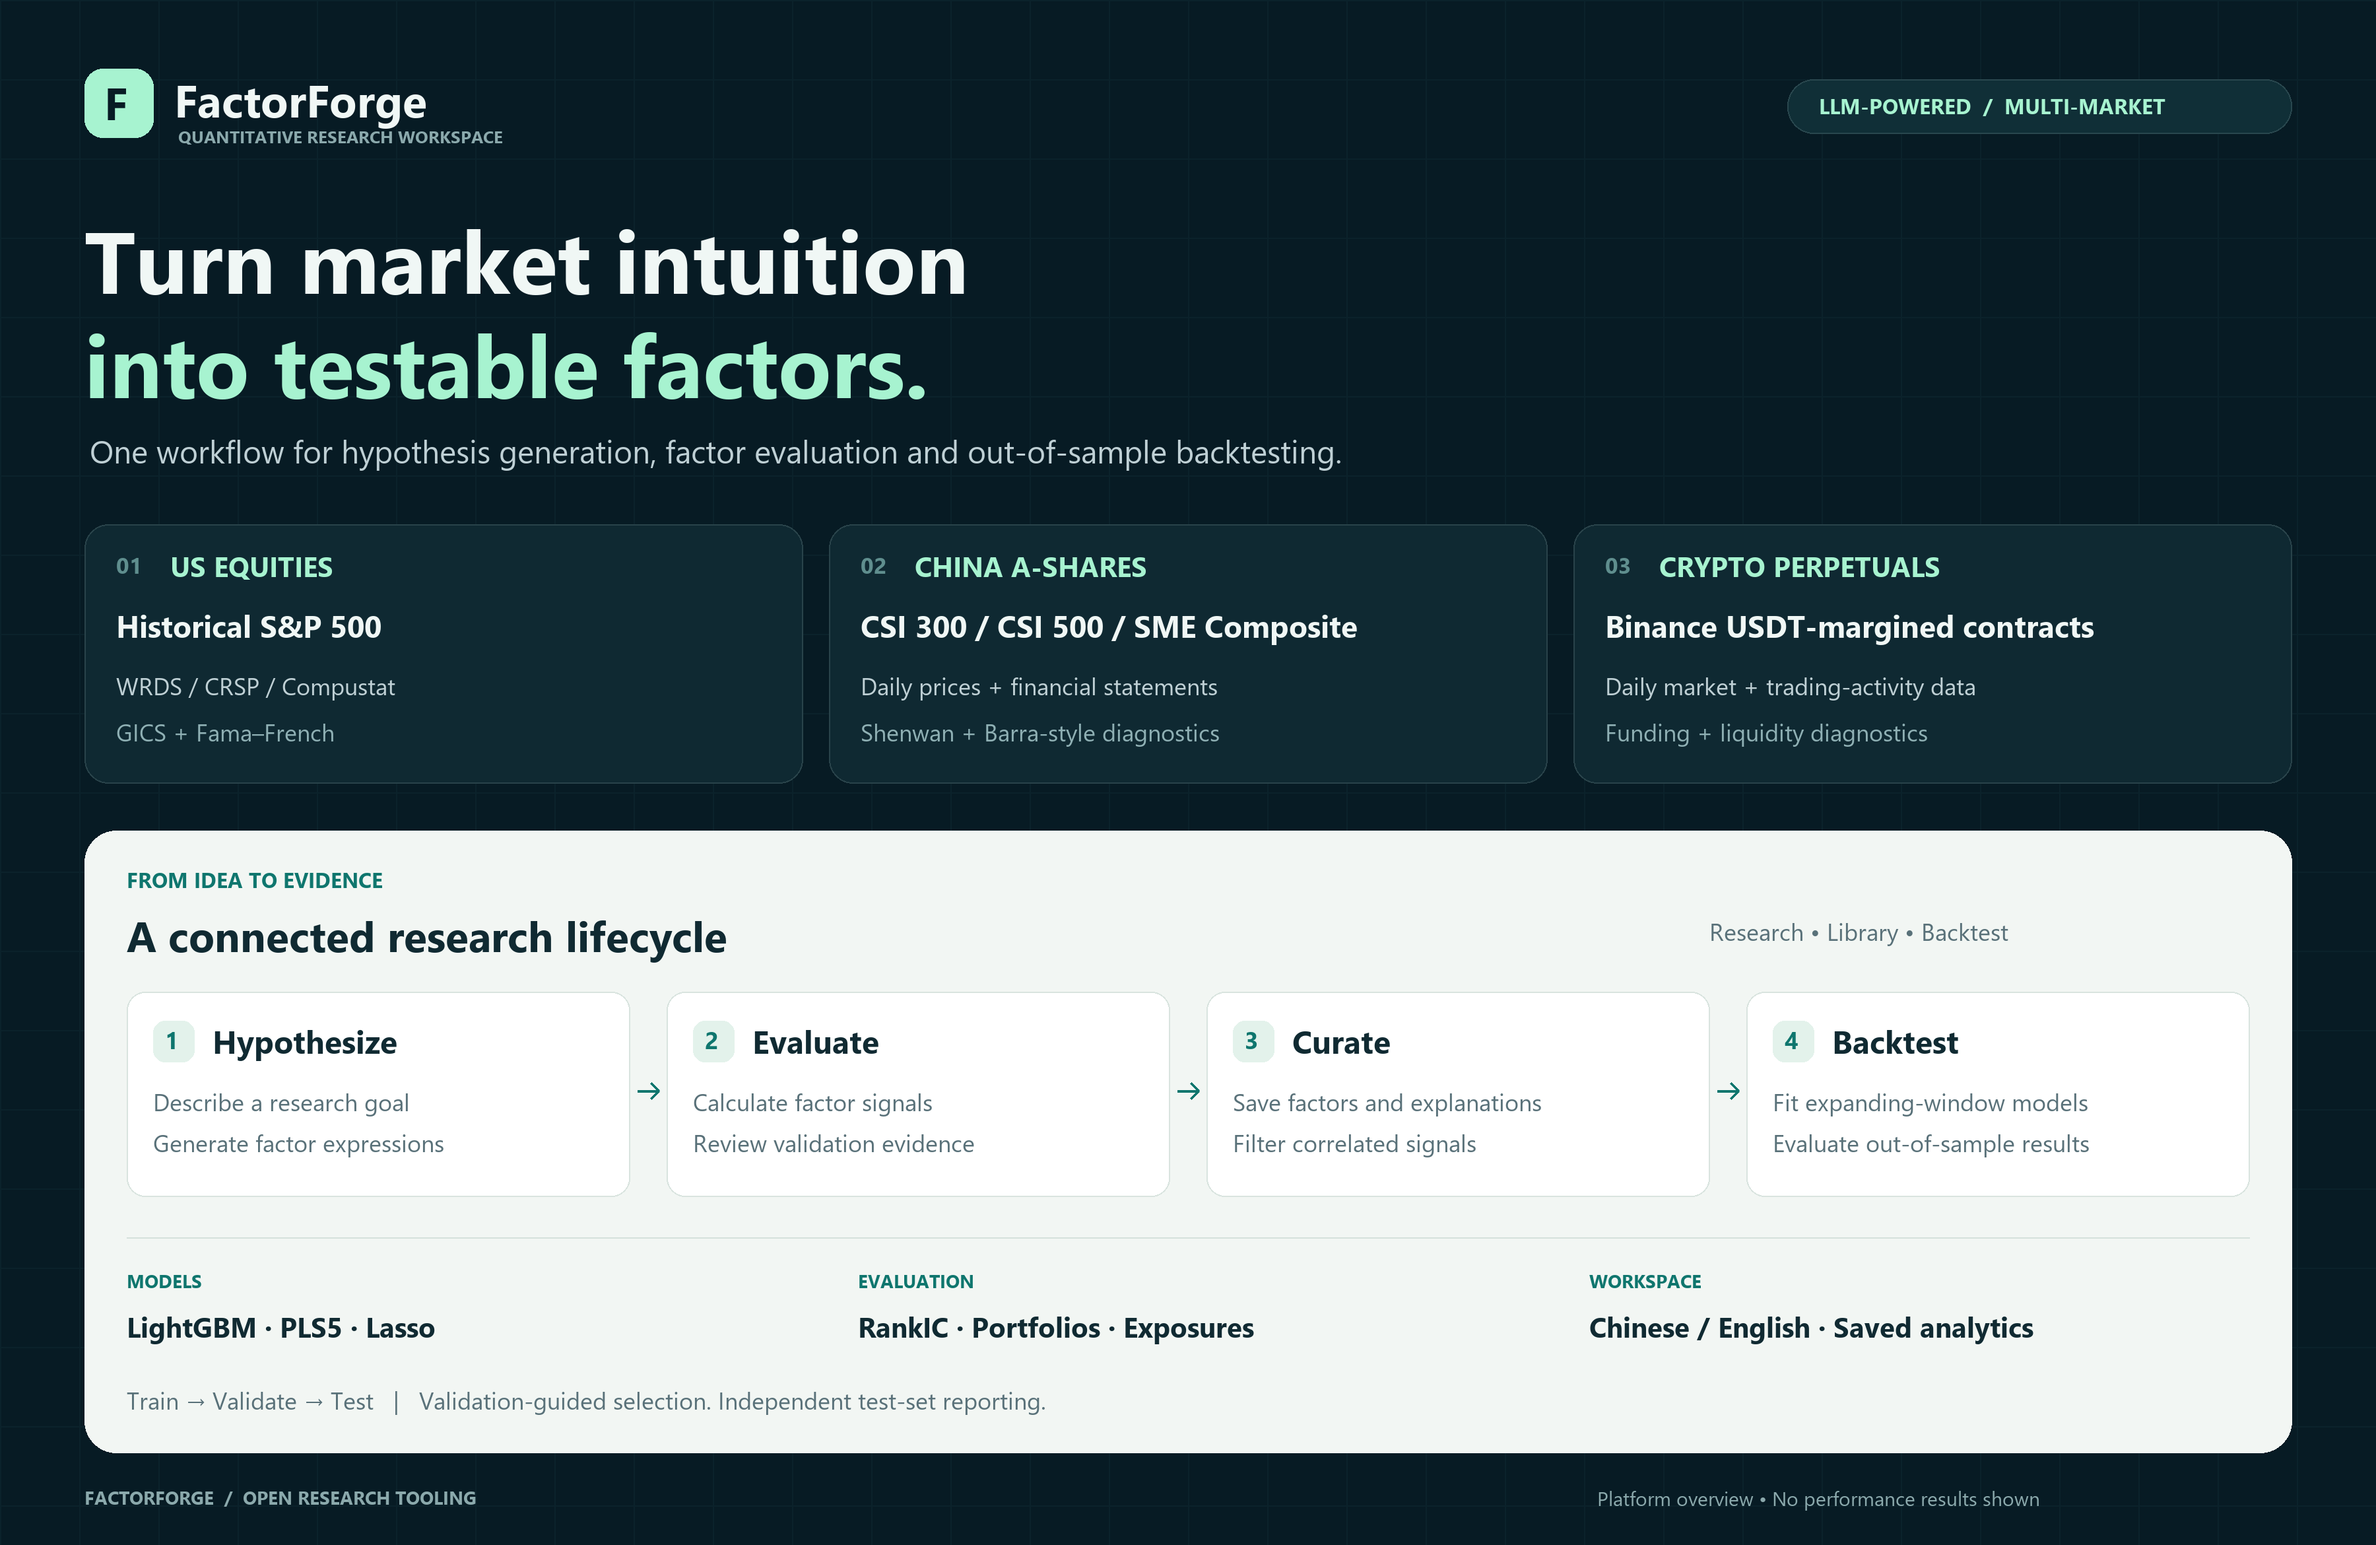
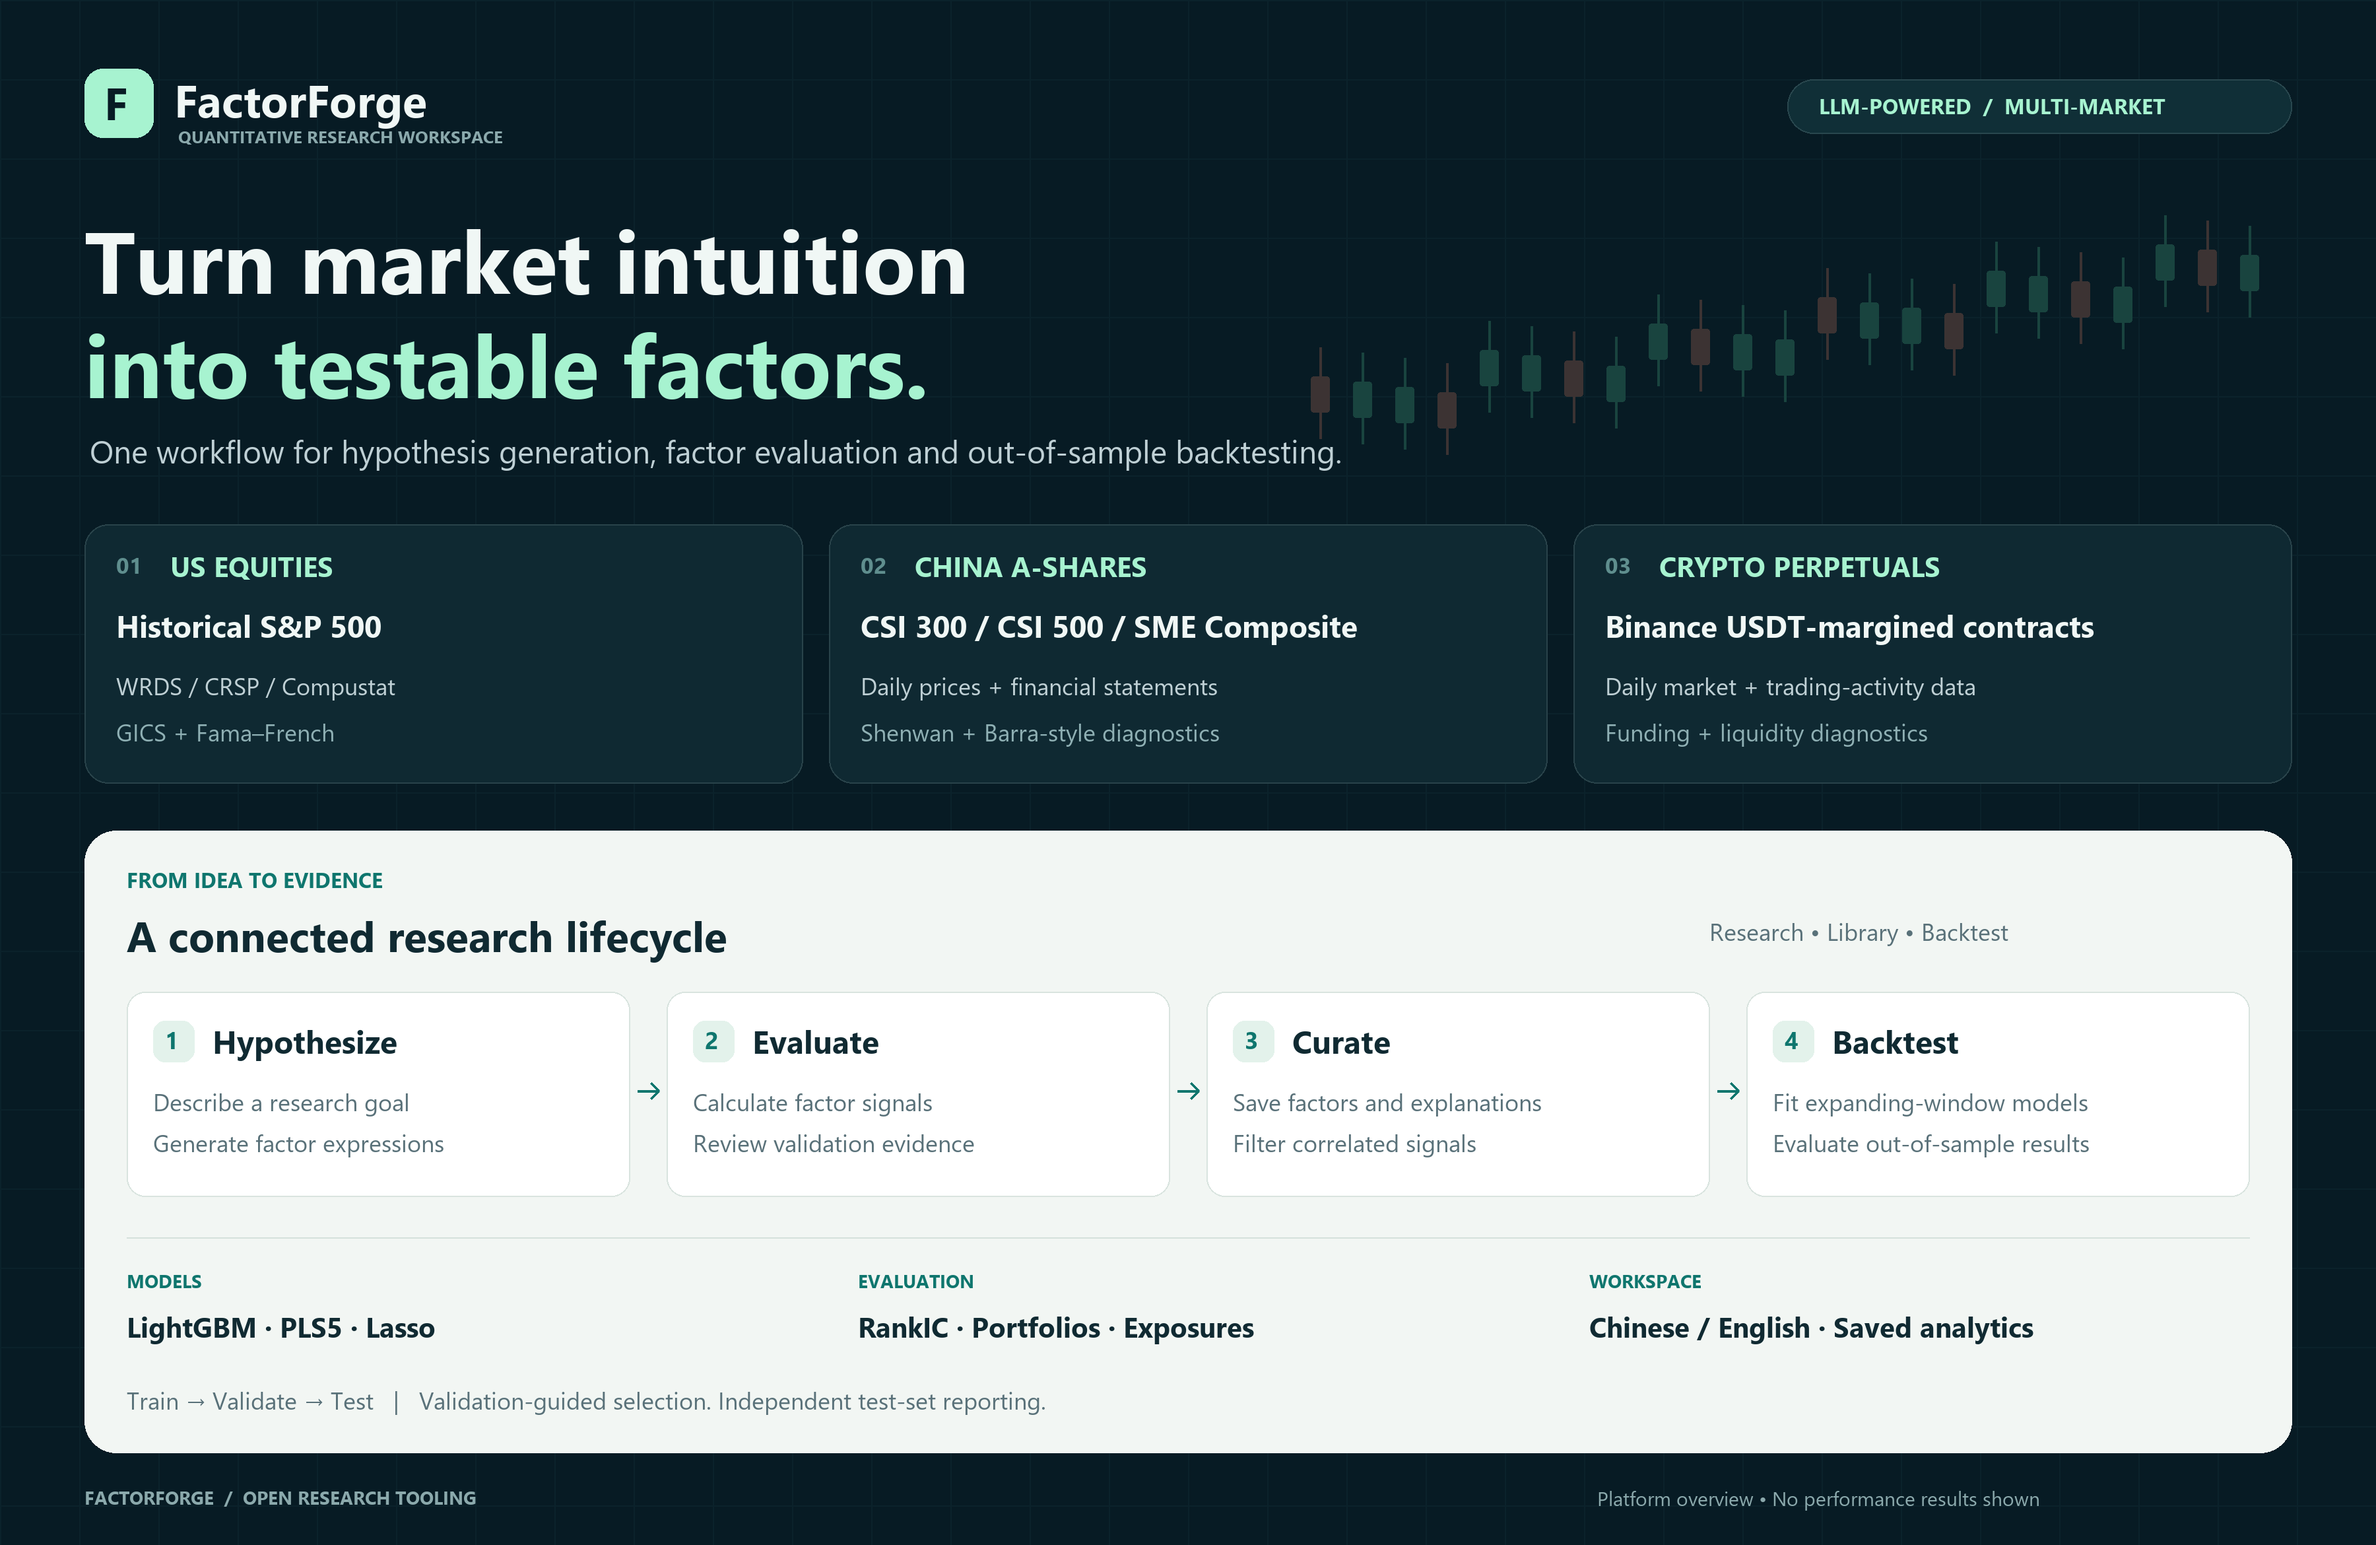
docs: add English README and candlestick platform styling

Changed region(s): [[0.6222, 0.156, 0.9022, 0.2808], [0.5289, 0.2496, 0.6222, 0.2808], [0.9022, 0.156, 0.9644, 0.1872]]

diff --git a/factorforge/frontend-v2/src/index.css b/factorforge/frontend-v2/src/index.css
@@ -108,6 +108,21 @@
   background-size: 32px 32px, 32px 32px, auto, auto;
 }
 
+/* A static decorative chart stays behind content and never intercepts input. */
+.research-grid {
+  position: relative;
+  isolation: isolate;
+}
+
+.research-grid::before {
+  content: '';
+  position: fixed;
+  inset: 76px 0 0;
+  z-index: -1;
+  pointer-events: none;
+  background: url('/candlestick-background.svg') center / cover no-repeat;
+}
+
 /* Animated gradient border */
 @keyframes gradient-border {
   0%, 100% {

diff --git a/docs/render_showcase.py b/docs/render_showcase.py
@@ -22,6 +22,14 @@ def line(coords,fill='#29414a',width=1):
 for x in range(0,1800,60): line((x,0,x,1170),'#0b222b')
 for y in range(0,1170,60): line((0,y,1800,y),'#0b222b')
 
+# Decorative candlesticks, not historical prices or performance results.
+for i in range(23):
+    x = 1000 + i * 32
+    y = 285 - i * 5 + (i % 4) * 9
+    color = '#19443f' if i % 3 else '#3c3333'
+    line((x, y - 22, x, y + 47), color, 2)
+    box((x - 7, y, x + 7, y + 27), color, radius=2)
+
 box((64,52,116,104),'#a7f3d0',radius=14)
 text(79,54,'F',34,'#071b24',True)
 text(132,52,'FactorForge',34,'#f0f7f5',True)

diff --git a/README_EN.md b/README_EN.md
@@ -1,0 +1,161 @@
+<div align="center">
+
+# FactorForge
+
+**[简体中文](README.md) · English**
+
+**From research hypotheses to testable factors and out-of-sample portfolios.**
+
+An LLM-powered research workspace for US equities, China A-shares and crypto perpetuals.
+
+[Features](#features) · [Markets](#markets) · [Quick start](#quick-start) · [Project structure](#project-structure)
+
+</div>
+
+![FactorForge platform overview](docs/assets/factorforge-overview.png)
+
+## Overview
+
+FactorForge brings hypothesis generation, factor calculation, statistical evaluation, library management and portfolio backtesting into one web workspace. Describe an idea or select research directions, evaluate candidate signals and use validation feedback to guide subsequent iterations.
+
+The platform source lives in [`factorforge/`](factorforge/). Its Python package retains the name `quantaalpha` for compatibility.
+
+```mermaid
+flowchart LR
+    A[Market and date configuration] --> B[Research hypotheses]
+    B --> C[LLM factor expressions]
+    C --> D[Calculation and validation]
+    D --> E[Feedback and evolution]
+    E --> C
+    D --> F[Factor library]
+    F --> G[Correlation filtering and modeling]
+    G --> H[Expanding-window backtest]
+```
+
+## Features
+
+| Module | Capabilities |
+|---|---|
+| Factor research | Natural-language goals, research directions, expression generation, iterative evolution, progress and logs |
+| Factor library | Separate markets and universes, historical deduplication, quality filters, ranking, batch removal and correlation heatmaps |
+| Factor details | LLM explanations, train/validation/test views, grouped returns, predictive statistics and market-specific diagnostics |
+| Portfolio backtests | Custom, Combined and US WRDS Kelly sources; LightGBM, PLS5 and Lasso; expanding-window fitting |
+| Settings | LLM connections, data paths, market parameters, independent date splits and evaluation frequencies |
+| Interface | Chinese/English switching, saved charts and statistics, reusable results and artifact cleanup |
+
+### Research and evaluation
+
+- **Predictiveness:** IC, RankIC and stability statistics. Crypto selection emphasizes validation RankIC / RankICIR; IC remains diagnostic.
+- **Portfolio behavior:** long, short and long–short returns, quantile portfolios, Sharpe, drawdown, turnover and costs.
+- **Exposures:** FF3, FF5, momentum extensions, industry and style diagnostics where supported by market data.
+- **Split isolation:** validation guides selection and evolution; the test set provides final out-of-sample evaluation.
+- **Correlation filtering:** identify redundant signals before building a portfolio model.
+
+Single-factor analytics evaluate the signal itself. Independent portfolio backtests evaluate predictions and portfolios built from multiple signals.
+
+## Markets
+
+| Market | Universe | Data and diagnostics |
+|---|---|---|
+| US equities | Historical S&P 500 constituents | WRDS / CRSP / Compustat, GICS, Fama–French regressions and optional Kelly factors |
+| China A-shares | CSI 300, CSI 500 and SME Composite | Local DuckDB prices, fundamentals, membership and industry data; Shenwan industries, Barra-style diagnostics and locally constructed pricing proxies |
+| Crypto | Binance USDⓈ-M USDT perpetual contracts | Daily prices and available trading-activity / funding fields; contract-count and listing-age filters; separate factor library |
+
+A-share filters can exclude contemporaneous ST stocks, newly listed stocks and securities on ChiNext, STAR Market or the Beijing Stock Exchange. Historical coverage and constituent accuracy depend on the supplied data.
+
+Single-factor evaluation supports daily, weekly and monthly rebalancing. Portfolio rebalancing depends on the selected workflow. **Model refitting frequency and portfolio rebalancing frequency are distinct settings.**
+
+## Quick start
+
+Recommended environment: **Linux or Windows WSL2, Python 3.10 and Node.js 18+**.
+
+### 1. Install the Python environment
+
+```bash
+git clone https://github.com/Haoyu-tech/LLM---Factor-generation.git
+cd LLM---Factor-generation/factorforge
+python3.10 -m venv .venv
+source .venv/bin/activate
+python -m pip install --upgrade pip
+python -m pip install -e .
+python -m pip install -r frontend-v2/backend/requirements.txt
+cp .env.template .env
+```
+
+Edit `.env` with your provider endpoint, model, credentials and local data paths. Template paths must be adapted to your machine.
+
+### 2. Install frontend dependencies and start the backend
+
+```bash
+cd frontend-v2
+npm ci
+python backend/app.py
+```
+
+### 3. Start the frontend in a second terminal
+
+```bash
+cd LLM---Factor-generation/factorforge/frontend-v2
+npm run dev
+```
+
+Open **http://localhost:3000/**. The backend defaults to port **8000**, with API documentation at http://localhost:8000/docs.
+
+Existing installations with a `quantaalpha` Conda environment can use `factorforge/frontend-v2/start.sh`. The Windows `Start-FactorForge.ps1` launcher expects an already configured WSL installation and service; it is not a fresh-install script.
+
+## Workflow
+
+1. Select a market and configure its data, universe and LLM connection.
+2. Configure ordered training, validation and test periods with sufficient data coverage.
+3. Enter a hypothesis or choose research directions, then follow evaluation feedback.
+4. Review expressions, explanations, charts, quality and correlations in the appropriate library.
+5. Select a factor source, model, quality filters and refitting interval for an expanding-window backtest.
+
+## Data and configuration
+
+This repository includes source code and configuration templates. **Raw databases, market files, actual API keys, installed dependencies, runtime caches and locally generated factor libraries are excluded.**
+
+- US mode requires the corresponding WRDS data and access rights.
+- A-share mode requires a local DuckDB database compatible with the adapters.
+- Crypto data construction uses Binance public market APIs and depends on availability and historical coverage.
+- Keep LLM credentials in your local `.env`.
+- Configure paths and periods separately for each market to avoid mixing universes or cached results.
+
+## Project structure
+
+```text
+factorforge/
+├── frontend-v2/
+│   ├── src/                 # React interface, state and language switching
+│   ├── backend/app.py       # FastAPI endpoints and task management
+│   └── start.sh             # Launcher for configured installations
+├── quantaalpha/
+│   ├── factors/             # Generation, calculation and evaluation
+│   ├── pipeline/            # Research and evolution workflows
+│   ├── backtest/            # Models, portfolios and statistics
+│   ├── data/                # Market data adapters
+│   ├── market/              # Market configuration and filters
+│   └── llm/                 # Model integration
+├── configs/
+├── tests/
+├── .env.template
+└── PLATFORM.md
+```
+
+## Development checks
+
+```bash
+# From factorforge/, with the Python environment activated
+python -m pip install pytest
+python -m pytest tests -q
+
+# Frontend type checking and production build
+cd frontend-v2
+npm run build
+```
+
+Existing tests cover parts of scoring and cache cleanup. They do not replace market-specific data alignment, return-methodology checks or complete backtest validation. Some legacy interface text uses a translation fallback. Results are research outputs, not a certification of trading performance.
+
+## Foundations
+
+FactorForge extends QuantaAlpha and preserves its package name and original author metadata. It uses Qlib, FastAPI, React and LightGBM, among other components. See the [inherited framework documentation](factorforge/README_EN.md) for the underlying project.

diff --git a/factorforge/PLATFORM.md b/factorforge/PLATFORM.md
@@ -1,5 +1,7 @@
 # FactorForge · 因子智研
 
+[Full English README](../README_EN.md) · [简体中文](../README.md)
+
 An interactive factor-research platform with Chinese/English UI, built on the QuantaAlpha codebase. The original package name remains `quantaalpha` for import compatibility. Original author metadata is preserved in `pyproject.toml`.
 
 ## Features

diff --git a/README.md b/README.md
@@ -2,6 +2,8 @@
 
 # FactorForge · 因子智研
 
+**简体中文 · [English](README_EN.md)**
+
 **从研究假设，到可检验的因子，再到样本外组合回测。**
 
 面向美股、A 股与 Crypto 永续合约的 LLM 因子研究平台。
